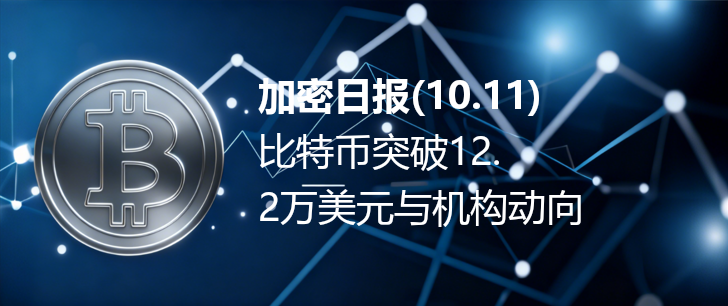
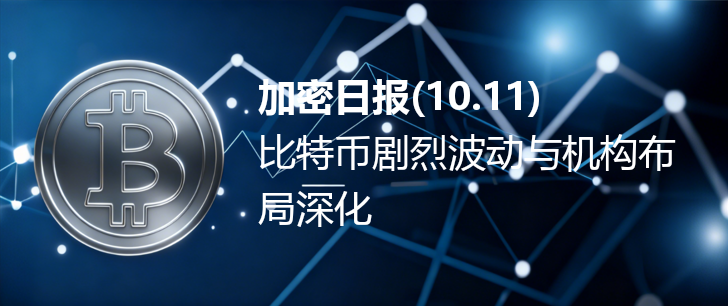
daily_news

diff --git a/files/latest_summary.md b/files/latest_summary.md
@@ -1,46 +1,53 @@
-### 一、比特币价格波动与市场动态
-**总结**：
-1. 比特币价格出现显著波动，包括突破122000美元及大幅下跌至11万美元以下，引发市场关注。
-2. 某比特币OG巨鲸通过做空BTC和ETH建立大额空头仓位，目前浮盈超2700万美元，其交易行为对市场产生“鲸鱼效应”。
-3. 大额资金动向影响市场，如某鲸鱼向Coinbase Institutional转入577枚BTC，价值约6991万美元。
+### 一、比特币价格波动与市场动态  
+**总结**：  
+1. 比特币近期经历剧烈价格波动，包括日内暴跌超13%（最低跌至105930美元）及突破历史高位122000美元，市场情绪受宏观政策、机构行为及技术面影响显著。  
+2. 市场出现大规模平仓潮，一小时内超60亿美元持仓被强制平仓，小型代币（如瑞波币、狗狗币）跌幅超30%，主流代币（如以太坊）跌幅超17%。  
+3. 尽管短期波动剧烈，比特币仍在部分时段突破122000美元，反映市场对其长期价值的信心与投机情绪交织。  
 
-**参考**：
-- [比特币暴跌至110623美元，市场持续震荡 - Bitcoin.com News](https://news.bitcoin.com/zh/bi-te-bi-bao-die-zhi-110623-mei-yuan-shi-chang-chi-xu-zhen-dang/)
-- [某比特币OG持续加仓做空BTC和ETH，总仓位超11亿美元 - 深潮TechFlow](https://m.techflowpost.com/newsletter/detail_101346.html)
-- [比特币远古巨鲸做空BTC和ETH目前浮盈已超2700万美元 - MarsBit](https://m.marsbit.co/flash/20251010233301295194.html)
-- [比特币资深玩家做空仓位获利超2700万美元 - Binance](https://www.binance.com/cn/square/post/30832269910242)
-- [比特币OG巨鲸的BTC和ETH空单已浮盈2700万美元 - Odaily](https://www.odaily.news/zh-CN/newsflash/451771)
-- [数据：某鲸鱼向Coinbase Institutional 转入577 枚比特币，价值约6991.87 万美元 - 链捕手](https://www.chaincatcher.com/article/2211541)
-- [比特币突破122000美元 - Mitrade](https://www.mitrade.com/cn/insights/news/live-news/article-3-1186423-20251010)
-- [一远古比特币巨鲸持续增加BTC和ETH空头仓位，总持仓规模已超11亿美元 - Mitrade](https://www.mitrade.com/cn/insights/news/live-news/article-3-1186425-20251010)
+**参考**：  
+- [币圈暴跌！一小时超60亿美元持仓遭平仓，比特币日内一度跌超13%](https://wallstreetcn.com/articles/3756978)  
+- [比特币突破122000美元](https://www.mitrade.com/cn/insights/news/live-news/article-3-1186423-20251010)  
+- [比特币（BTC）价格新闻：多头再次受挫](https://www.coindesk.com/zh/markets/2025/10/10/trump-tariff-threat-on-china-sends-bitcoin-tumbling-below-usd119k)  
 
 
-### 二、比特币挖矿业务进展
-**总结**：
-1. 多家比特币矿企公布挖矿产出及持仓情况，如灿谷本周挖矿产出135.6枚BTC，总持有量达5985.4枚；嘉楠科技9月挖矿产出92枚BTC，持仓量增至1582枚BTC及2830枚ETH。
-2. 矿业公司Bitdeer正大幅扩大自营比特币挖矿业务，2024年底至2025年7月自有算力增长近三倍至22.5 EH/s，目标跻身全球前五大矿企。
-3. 比特币矿工在电力紧张背景下成为关键的人工智能基础设施合作伙伴，受伯恩斯坦关注。
+### 二、比特币巨鲸交易行为与市场影响  
+**总结**：  
+1. 某比特币“远古巨鲸”持续做空BTC和ETH，通过10倍、12倍杠杆建立超11亿美元空头仓位，目前浮盈超2700万美元，反映其对市场短期波动的谨慎态度及风险管理策略。  
+2. 另有大额鲸鱼向Coinbase Institutional转入577枚比特币（价值约6991万美元），引发市场对大额资金动向的关注。  
+3. 巨鲸交易行为对市场情绪影响显著，其多空转换（如从做多ETH转为做空加密市场）被视为短期价格波动的重要参考指标。  
 
-**参考**：
-- [灿谷本周挖矿产出135.6枚BTC - Binance](https://www.binance.com/cn/square/post/30827324917130)
-- [Bitdeer 正大幅扩大其自营比特币挖矿业务 - 新浪财经](https://finance.sina.com.cn/blockchain/roll/2025-10-10/doc-inftmnmf1202929.shtml)
-- [嘉楠科技：9月挖矿产出92枚BTC - Odaily](https://www.odaily.news/zh-CN/newsflash/451742)
-- [比特币（BTC）矿工在电力紧张背景下成为关键的人工智能基础设施合作伙伴：伯恩斯坦 - Coindesk](https://www.coindesk.com/zh/markets/2025/10/10/bitcoin-miners-emerge-as-key-ai-infrastructure-partners-amid-power-crunch-bernstein)
-
-
-### 三、金融机构与监管动态
-**总结**：
-1. 高盛发行首只比特币挂钩债券，收益与标普500指数、比特币ETF及罗素2000 ETF挂钩，虽为传统金融机构探索，但存在高风险与争议。
-2. 英国政府解除对散户投资者接触加密货币交易所交易票据（ETN）的长期禁令，允许在股票和股份ISA账户中持有加密ETN，但英国最大散户投资平台警告比特币无内在价值，风险远高于传统资产。
-
-**参考**：
-- [高盛首推比特币挂钩债券：诱人收益背后是场“对赌陷阱”？_加密货币_全球资讯- 币海NEWS](https://www.bihainews.com/bhn-info/Crypto/20251010273.html)
-- [英国政府解除ETN禁令，英国最大散户投资平台：比特币并非一种资产 - 富途资讯](https://news.futunn.com/post/63116765/the-uk-government-lifts-the-etn-ban-and-the-uk)
+**参考**：  
+- [某比特币OG巨鲸的BTC和ETH空单已浮盈2700万美元](https://www.odaily.news/zh-CN/newsflash/451771)  
+- [数据：某鲸鱼向Coinbase Institutional转入577枚比特币](https://www.chaincatcher.com/article/2211541)  
+- [比特币远古巨鲸做空BTC和ETH目前浮盈已超2700万美元](https://www.theblockbeats.info/flash/315734)  
 
 
-### 四、机构合作与市场布局
-**总结**：
-1. 与特朗普家族有关的投资公司Dominari Holdings旗下子公司Dominari Securities与比特币可编程性项目Hemi合作，推进比特币金库与现货ETF平台计划，并对Hemi项目主导方进行投资。
+### 三、比特币矿企挖矿产出及业务扩张  
+**总结**：  
+1. 美股上市矿企灿谷（Cango）本周挖矿产出135.6枚BTC，总持有量达5985.4枚BTC，显示其挖矿业务稳步推进。  
+2. 矿业公司Bitdeer（BTDR）大幅扩大自营挖矿业务，2024年底至2025年7月自有算力增长近三倍至22.5 EH/s，目标跻身全球前五大比特币矿企。  
+3. 纳斯达克上市公司嘉楠科技披露9月挖矿产出92枚BTC，比特币持仓量增至1582枚，同时持有2830枚ETH，业务多元化布局。  
 
-**参考**：
-- [Trump 家族关联机构Dominari 与Hemi 合作，推进BTC 金库与ETF 平台计划 - 新浪财经](https://finance.sina.com.cn/blockchain/roll/2025-10-11/doc-inftmwyx9233791.shtml)
+**参考**：  
+- [灿谷本周挖矿产出135.6枚BTC](https://www.binance.com/cn/square/post/30827324917130)  
+- [Bitdeer正大幅扩大其自营比特币挖矿业务](https://finance.sina.com.cn/blockchain/roll/2025-10-10/doc-inftmnmf1202929.shtml)  
+- [嘉楠科技：9月挖矿产出92枚BTC](https://www.odaily.news/zh-CN/newsflash/451742)  
+
+
+### 四、传统金融机构与加密市场互动  
+**总结**：  
+1. 高盛发行首只比特币挂钩债券，以标普500指数、比特币相关ETF及罗素2000 ETF为标的，承诺每月1.1%潜在收益，但本金保障与利息支付依赖资产价格维持在特定阈值，隐含对标的资产下跌的看跌倾向。  
+2. 英国政府解除对散户投资者接触加密货币交易所交易票据（ETN）的禁令，允许在股票和股份ISA账户中持有加密ETN，但英国最大散户平台警告比特币无内在价值、风险远高于传统资产。  
+3. 传统金融机构对加密市场的探索从产品创新（如挂钩债券）向监管合规（如ETN）延伸，反映市场接受度逐步提升但风险争议仍存。  
+
+**参考**：  
+- [高盛首推比特币挂钩债券：诱人收益背后是场“对赌陷阱”？](https://www.bihainews.com/bhn-info/Crypto/20251010273.html)  
+- [英国政府解除ETN禁令，英国最大散户投资平台：比特币并非一种资产](https://news.futunn.com/post/63116765/the-uk-government-lifts-the-etn-ban-and-the-uk)  
+
+
+### 五、比特币矿工与AI基础设施合作  
+**总结**：  
+1. 伯恩斯坦报告指出，在全球电力紧张背景下，比特币矿工因具备大量算力和稳定电力需求，正成为人工智能（AI）基础设施的关键合作伙伴，为AI训练提供算力支持，形成新的业务协同。  
+
+**参考**：  
+- [比特币矿工在电力紧张背景下成为关键的人工智能基础设施合作伙伴：伯恩斯坦](https://www.coindesk.com/zh/markets/2025/10/10/bitcoin-miners-emerge-as-key-ai-infrastructure-partners-amid-power-crunch-bernstein)
